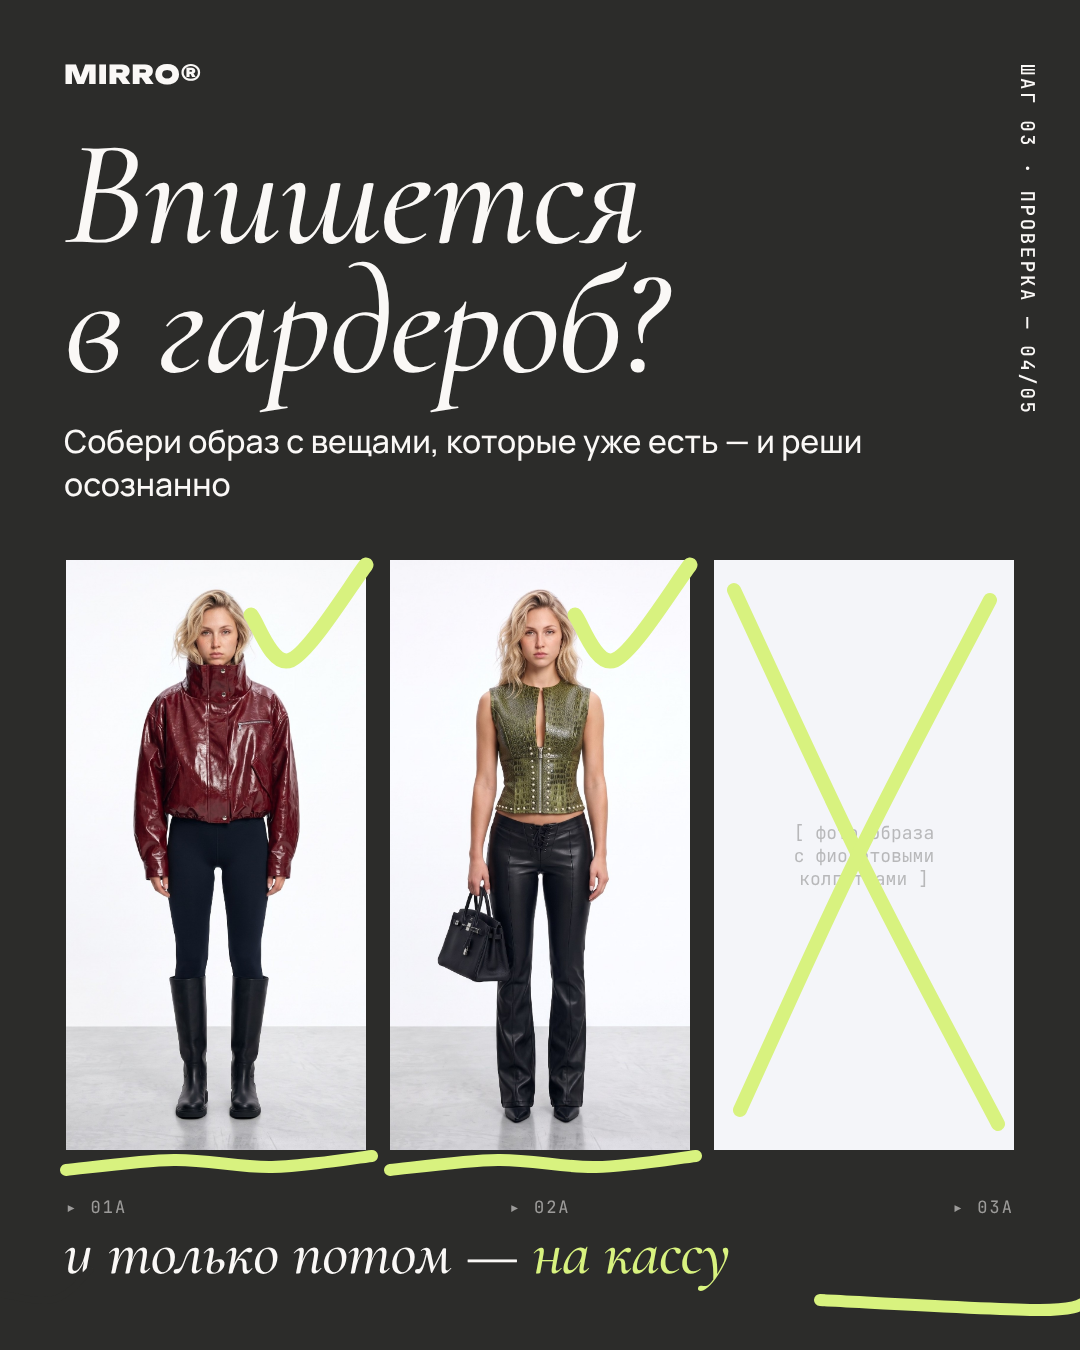
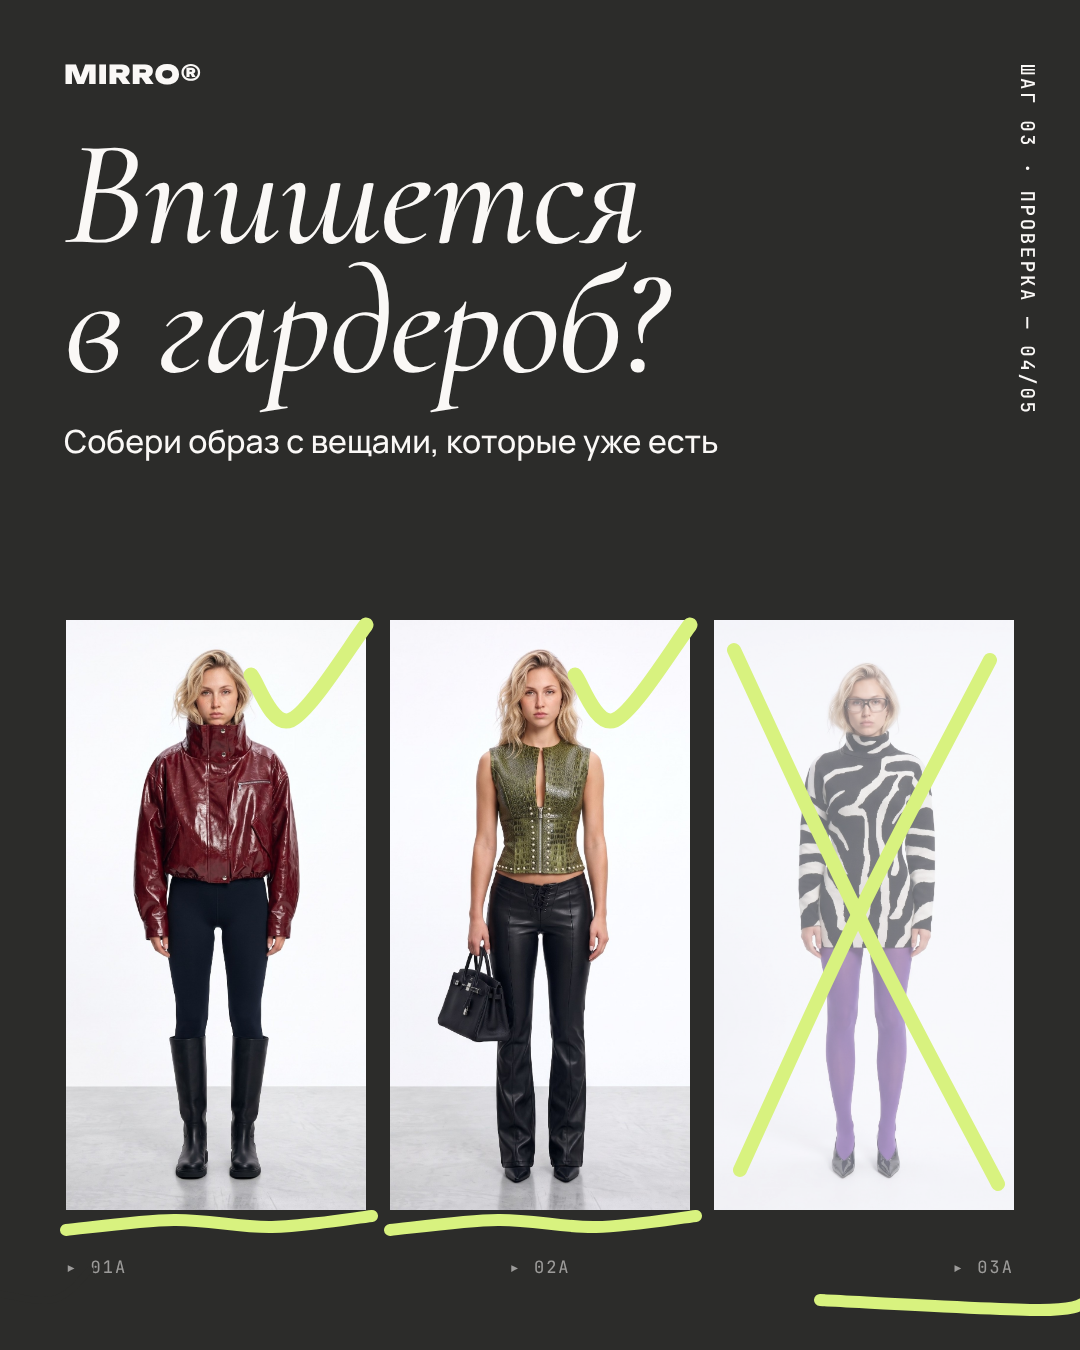
Карусель 2: фото неудачного образа, убраны лишние фразы
Claude-Session: https://claude.ai/code/session_01V1NUh11xrVMcB1cs4GV2qz

Changed region(s): [[0.0611, 0.4044, 0.9472, 0.9644], [0.0611, 0.3422, 0.2139, 0.3733], [0.7028, 0.3111, 0.7944, 0.3422]]

diff --git a/carousels/02-try-before-buy/panorama.html b/carousels/02-try-before-buy/panorama.html
@@ -50,12 +50,12 @@
     .s4 { background: var(--dark); color: var(--cream); }
     .s4 h2 { position: absolute; left: 64px; top: 130px; font-size: 150px; }
     .s4 .sub { position: absolute; left: 64px; top: 420px; width: 820px; }
-    .sheet { position: absolute; left: 66px; top: 560px; display: flex; gap: 24px; }
+    .sheet { position: absolute; left: 66px; top: 620px; display: flex; gap: 24px; }
     .frame-ph { position: relative; width: 300px; height: 590px; background: #F4F5F9; overflow: hidden; }
     .frame-ph img { width: 100%; height: 100%; object-fit: cover; object-position: 50% 30%; display: block; }
     .frame-ph.no img, .frame-ph.no .ph { opacity: .55; }
     .frame-ph .ph { position: absolute; inset: 0; display: flex; align-items: center; justify-content: center; text-align: center; font-family: var(--font-mono); font-size: 18px; color: #888; padding: 20px; }
-    .edge { position: absolute; left: 66px; top: 1196px; width: 948px; display: flex; justify-content: space-between; font-family: var(--font-mono); font-size: 17px; letter-spacing: .12em; color: rgba(250,248,246,.55); }
+    .edge { position: absolute; left: 66px; top: 1256px; width: 948px; display: flex; justify-content: space-between; font-family: var(--font-mono); font-size: 17px; letter-spacing: .12em; color: rgba(250,248,246,.55); }
     .s4 .bottom { position: absolute; left: 64px; bottom: 70px; font-size: 64px; }
 
     /* S5 — финал */
@@ -108,15 +108,14 @@
     <div class="mark light">MIRRO®</div>
     <div class="side light">Шаг 03 · Проверка — 04/05</div>
     <h2 class="it">Впишется<br>в гардероб?</h2>
-    <p class="txt sub">Собери образ с вещами, которые уже есть — и реши осознанно</p>
+    <p class="txt sub">Собери образ с вещами, которые уже есть</p>
     <div class="sheet">
       <div class="frame-ph" id="f1"><img src="img/look-jacket.jpg" alt=""></div>
       <div class="frame-ph" id="f2"><img src="img/look-vest.jpg" alt=""></div>
-      <div class="frame-ph no" id="f3"><div class="ph">[ фото образа<br>с фиолетовыми<br>колготками ]</div></div>
+      <div class="frame-ph no" id="f3"><img src="img/look-zebra.jpg" alt=""></div>
     </div>
     <div class="edge"><span>▸ 01A</span><span>▸ 02A</span><span>▸ 03A</span></div>
     <div class="hand" style="position:absolute; left:96px; top:470px; font-size:0;"></div>
-    <p class="it bottom">и только потом — <span style="color: var(--lime)">на кассу</span></p>
   </section>
 
   <!-- 05 -->

diff --git a/carousels/02-try-before-buy/caption.md b/carousels/02-try-before-buy/caption.md
@@ -2,7 +2,7 @@
 
 Сколько вещей в твоём шкафу висят с биркой?
 
-Увидела вещь в магазине — сфоткай её или сохрани фото. MIRRO покажет, как она сядет именно на тебе, и поможет собрать образы с тем, что у тебя уже есть. Подходит — берёшь. Нет — экономишь.
+Увидела вещь в магазине — сфоткай её или сохрани фото. MIRRO покажет, как она сядет именно на тебе, и поможет собрать образы с тем, что у тебя уже есть. Подходит — берёшь. Нет — не тратишь деньги зря.
 
 Покупай только то, что реально носишь.
 Ссылка на приложение — в шапке профиля → @Mirro_wardrobe_bot
